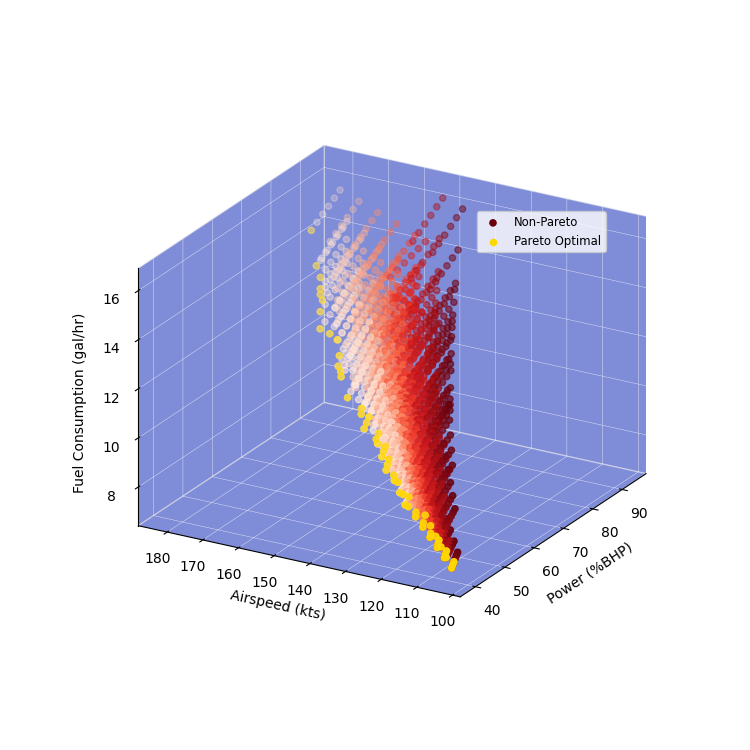
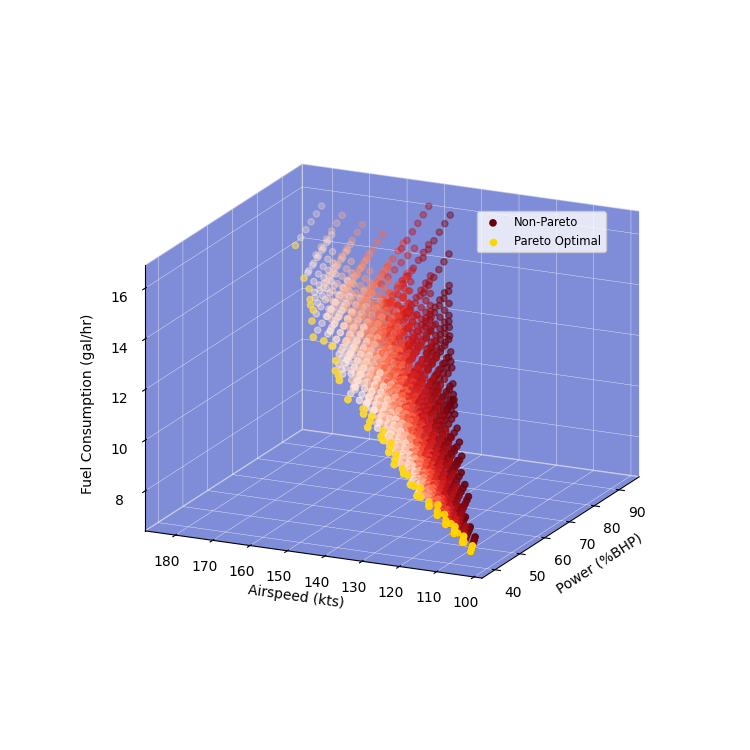
Added figures

diff --git a/getPlots.py b/getPlots.py
@@ -4,39 +4,34 @@ import numpy as np                      # type: ignore
 from mpl_toolkits.mplot3d import Axes3D # type: ignore
 from scipy.spatial import cKDTree       # type: ignore
 
-# Load data
 results_df = pd.read_csv("computation/results.csv")
 optima = pd.read_csv("computation/pareto_optima.csv")
 optimum = pd.read_csv("computation/pareto_optimum.csv")
 
-# Coordinates of non-Pareto/Pareto optimal points
+# non-Pareto/Pareto optimal points
 non_pareto_pts = results_df[['optimal_power', 'optimal_airspeed', 'optimal_fc']].values
 pareto_pts = optima[['optimal_power', 'optimal_airspeed', 'optimal_fc']].values
 
-# Distances from each non-Pareto optimal point to the nearest Pareto optimal point
 tree = cKDTree(pareto_pts)
 distances, _ = tree.query(non_pareto_pts, k=1)
 
-# Color gradient from light red to light pink based on distances
+# color gradient from light red to light pink based on distances
 min_distance = min(distances)
 max_distance = max(distances)
 color_grad = np.linspace(1, 0.05, len(distances))
 colors = plt.cm.Reds(color_grad)
 
-# Create the figure and axis
 fig = plt.figure(figsize=(7.5, 7.5))
 ax = fig.add_subplot(111, projection='3d')
 
-# Plot data points
 sc = ax.scatter(results_df['optimal_power'], results_df['optimal_airspeed'], results_df['optimal_fc'], c=colors, marker='o', label='Non-Pareto')
 sc_optima = ax.scatter(optima['optimal_power'], optima['optimal_airspeed'], optima['optimal_fc'], c='gold', marker='o', label='Pareto Optimal')
 # sc_optimum = ax.scatter(optimum['optimal_power'], optimum['optimal_airspeed'], optimum['optimal_fc'], c='blue', marker='o', label=r"$\vec{\mathbf{w}} = (0.0,0.0,1.0)$", zorder=10)
 
-# Set labels
 ax.set_xlabel(r'Power (%BHP)')
 ax.set_ylabel(r'Airspeed (kts)')
 ax.set_zlabel(r'Fuel Consumption (gal/hr)')
-ax.yaxis.label.set_position((0.5, -0.1))  # second value to move the label lower
+ax.yaxis.label.set_position((0.5, -0.1))
 
 ax.xaxis.pane.set_facecolor((0, 0.1, 0.7, 0.5))
 ax.yaxis.pane.set_facecolor((0, 0.1, 0.7, 0.5))
@@ -48,7 +43,7 @@ ax.zaxis._axinfo["grid"].update(color = 'white', linestyle = '-', linewidth = 0.
 
 ax.legend(fontsize='small', loc='upper left', bbox_to_anchor=(0.65, 0.8))
 
-ax.view_init(elev=22.5, azim=210)
+ax.view_init(elev=17.5, azim=205)
 ax.set_proj_type("ortho")
 
 plt.show()
